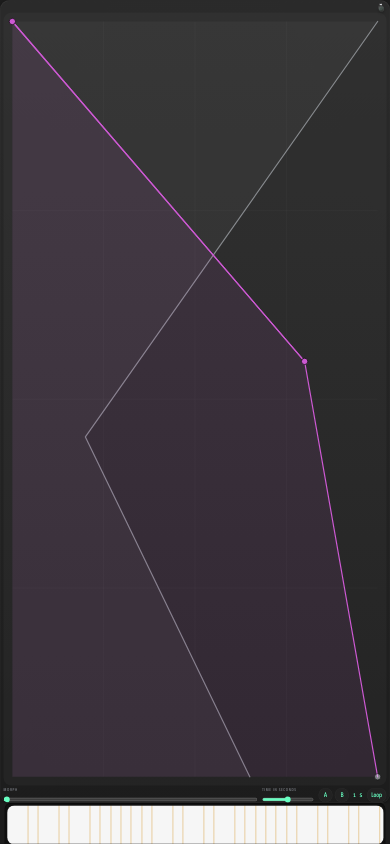
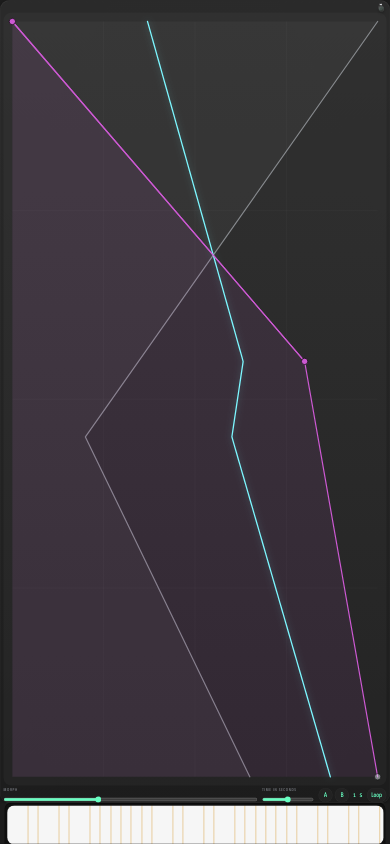
fix: show realized MSEG morph on iPhone

diff --git a/ui/ios/IOSPatchView.tsx b/ui/ios/IOSPatchView.tsx
@@ -531,6 +531,9 @@ const IOSMsegLauncher = memo(function IOSMsegLauncher({
                         {msegState ? (
                             <MsegPreview
                                 points={msegState.shape.points}
+                                morphShapeAPoints={msegState.shapeA?.points ?? null}
+                                morphShapeBPoints={msegState.shapeB?.points ?? null}
+                                morphValue={selectedMsegMorph.value}
                                 editShapeIndex={msegState.editShapeIndex ?? 0}
                                 orientation={previewOrientation}
                                 className="h-full w-full overflow-hidden rounded-[20px] bg-white/[0.03]"
@@ -1255,6 +1258,9 @@ const IOSMsegModal = memo(function IOSMsegModal({
                                 orientation={orientation}
                                 points={msegState.shape.points}
                                 referencePoints={msegState.referenceShape?.points ?? null}
+                                morphShapeAPoints={msegState.shapeA?.points ?? null}
+                                morphShapeBPoints={msegState.shapeB?.points ?? null}
+                                morphValue={selectedMsegMorph.value}
                                 editShapeIndex={msegState.editShapeIndex ?? 0}
                                 selectedPointIndex={selectedPointIndex}
                                 hoveredSegmentIndex={hoveredSegmentIndex}

diff --git a/docs/evidence/t48-t49-adsr-editor/README.md b/docs/evidence/t48-t49-adsr-editor/README.md
@@ -8,8 +8,9 @@ The ADSR screenshots mount the production `DesktopPatchView`, and the iPhone MSE
 - `phone-393x852-full.png` shows the phone's full Envelope editor.
 - `desktop-1280x900.png` shows the same responsive editor in the desktop composition.
 - `desktop-1280x900-mseg-colors.png` shows MSEG B selected while A stays purple, B stays gray, and the realized shape stays cyan.
-- `iphone-390x844-mseg-a-emphasized.png` mounts the live iPhone source composition with Shape A edited and one segment emphasized; both the segment and A remain purple while B remains gray.
-- `iphone-390x844-mseg-b-emphasized.png` shows the reciprocal iPhone state: Shape B and its emphasized segment remain gray while A remains purple.
+- `iphone-390x844-mseg-preview-morph.png` mounts the live iPhone source composition at Morph 0.37; the launcher preview keeps A purple, B gray, and the realized result cyan.
+- `iphone-390x844-mseg-a-emphasized.png` shows the full iPhone editor with Shape A edited and one segment emphasized; both the segment and A remain purple, B remains gray, and the realized result remains cyan.
+- `iphone-390x844-mseg-b-emphasized.png` shows the reciprocal full-editor state: Shape B and its emphasized segment remain gray while A remains purple and the realized result remains cyan.
 - `phone-393x852-decay-bubble.png` shows horizontal breakpoint ownership and its compact time bubble.
 - `phone-393x852-sustain-bubble.png` shows Sustain acquired from the middle of the horizontal segment with only a percentage bubble.
 - `geometry.json` records the exact viewport, shell, SVG/viewBox, curve, visible-handle, hit-target, stroke, and bubble geometry behind the captures.
